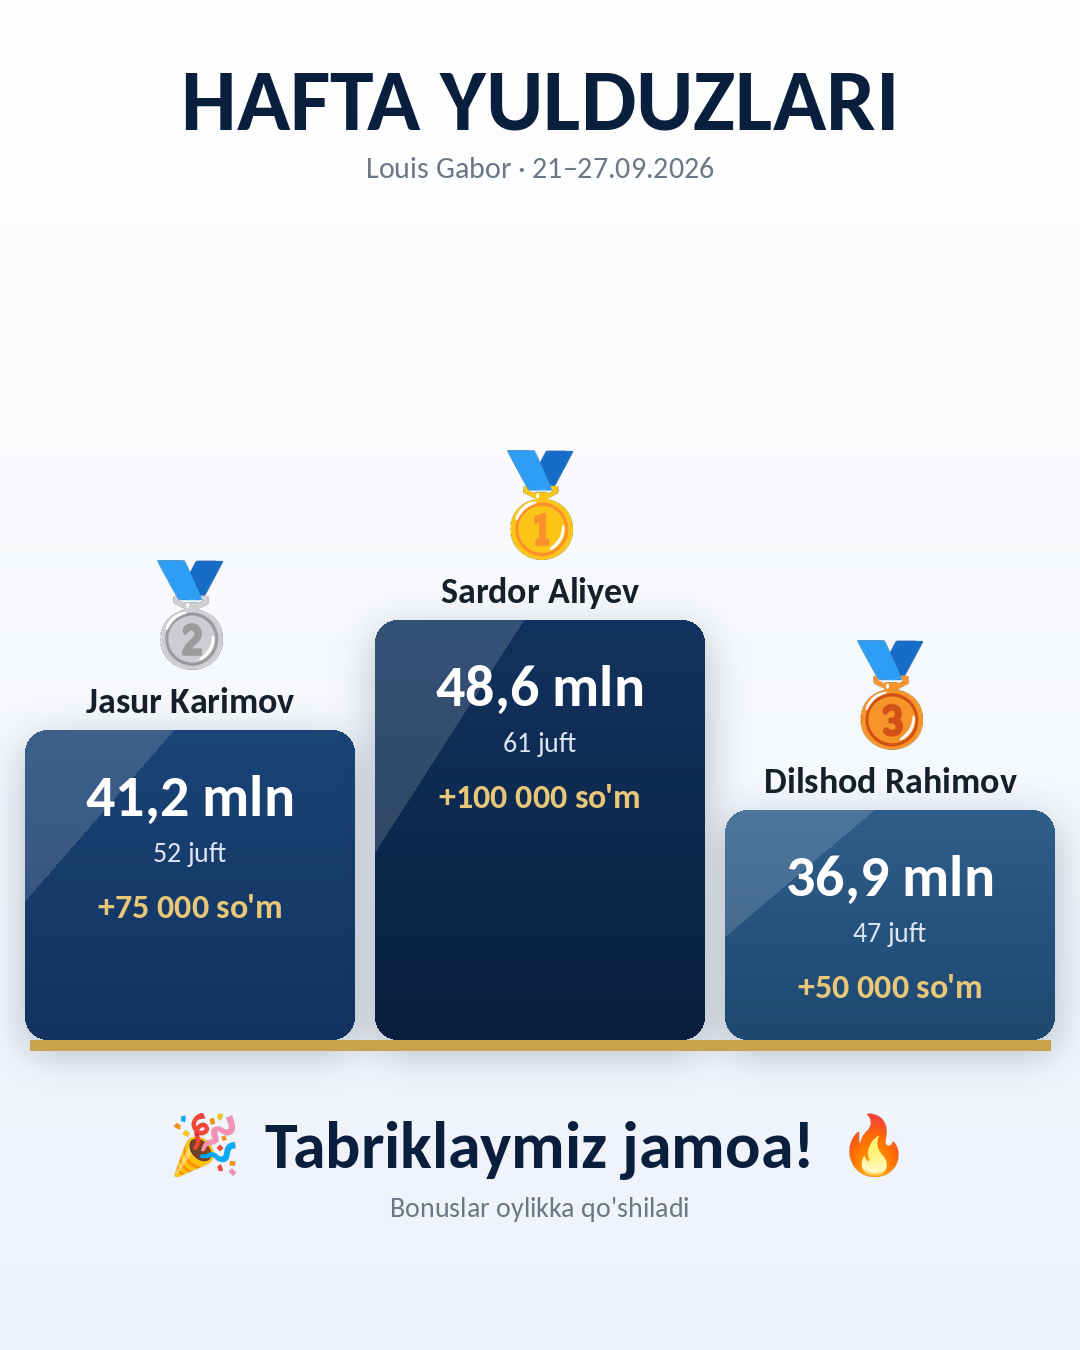
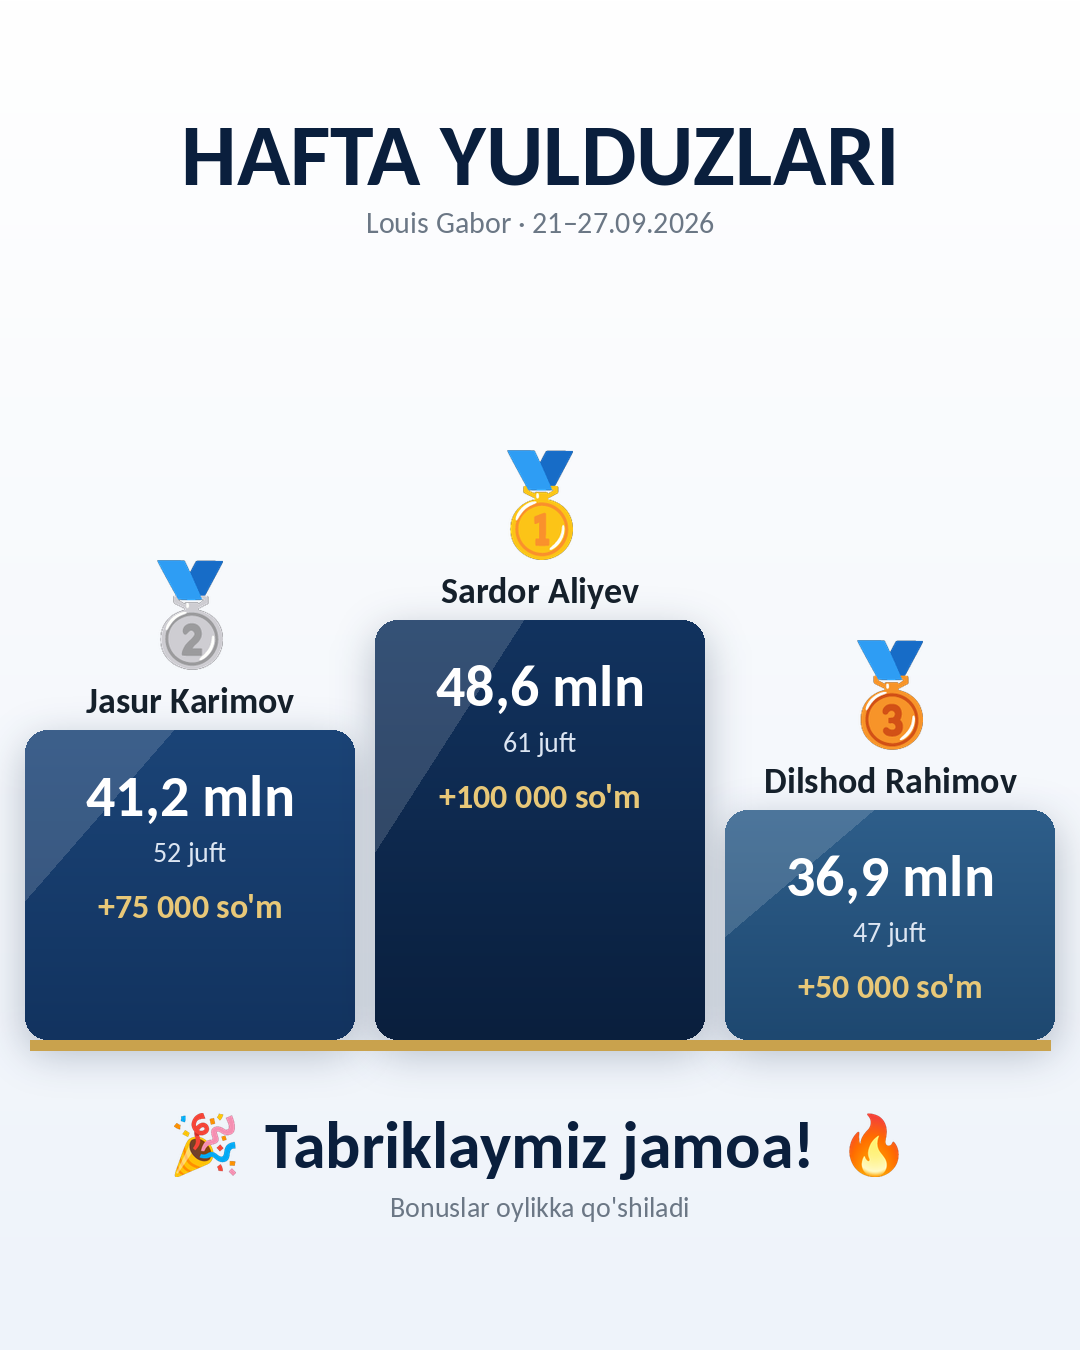
title lower: equal top/bottom gap

Changed region(s): [[0.1528, 0.0311, 0.825, 0.1867]]

diff --git a/render.py b/render.py
@@ -39,8 +39,8 @@ def emo(im,ch,cx,cy,s):
     im.paste(t,(int(cx-t.width/2),int(cy-t.height/2)),t)
 def render(D,out):
     im=grad(1080,1350,'#FFFFFF','#EEF3FA');d=ImageDraw.Draw(im)
-    d.text((540,100),D.get('title','HAFTA YULDUZLARI'),font=F(88,True),fill=NAVY,anchor='mm')
-    d.text((540,168),D.get('sub',''),font=F(30),fill=MUT,anchor='mm')
+    d.text((540,155),D.get('title','HAFTA YULDUZLARI'),font=F(88,True),fill=NAVY,anchor='mm')
+    d.text((540,223),D.get('sub',''),font=F(30),fill=MUT,anchor='mm')
     BASE=1040;HH={0:420,1:310,2:230};XS={1:190,0:540,2:890}
     top=D['top']
     for i in (1,0,2):
